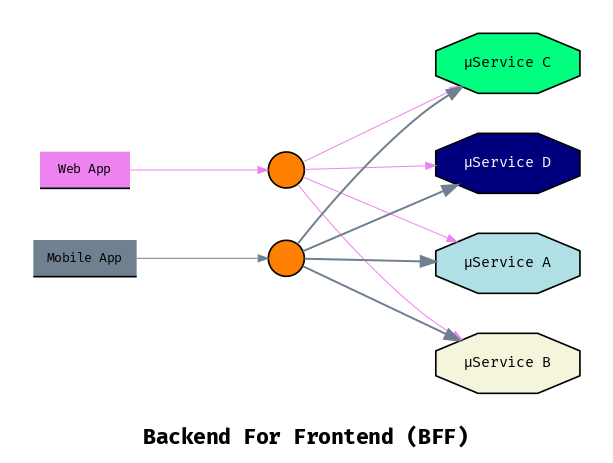
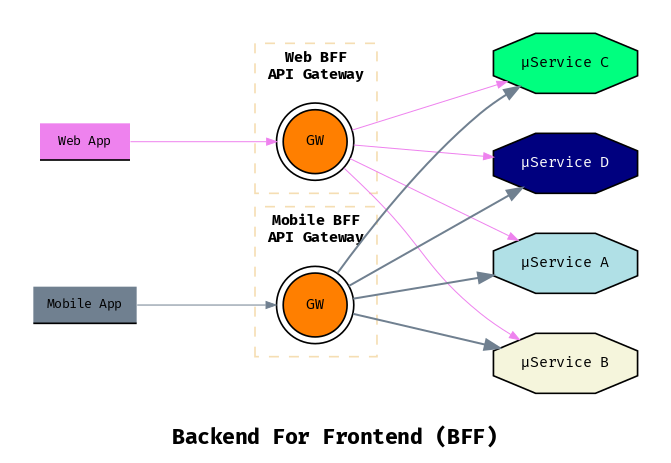
Add four new components: balancer, cdn, dns, html

diff --git a/balancer.go b/balancer.go
@@ -9,16 +9,16 @@ import (
 	"github.com/lucasepe/draft/pkg/node"
 )
 
-type storage struct {
+type balancer struct {
 	seq int16
 }
 
-func (rcv *storage) nextID() string {
+func (rcv *balancer) nextID() string {
 	rcv.seq++
-	return fmt.Sprintf("st%d", rcv.seq)
+	return fmt.Sprintf("lb%d", rcv.seq)
 }
 
-func (rcv *storage) sketch(graph *dot.Graph, comp Component) {
+func (rcv *balancer) sketch(graph *dot.Graph, comp Component) {
 	id := comp.ID
 	if strings.TrimSpace(comp.ID) == "" {
 		id = rcv.nextID()
@@ -27,12 +27,11 @@ func (rcv *storage) sketch(graph *dot.Graph, comp Component) {
 	cl := cluster.New(graph, id, cluster.Label(comp.Impl))
 
 	el := node.New(cl, id,
-		node.Label(comp.Label, false),
+		node.Label("LB", false),
 		node.Rounded(comp.Rounded),
 		node.FontColor(comp.FontColor),
-		node.FillColor(comp.FillColor, "#f0e77fff"),
-		node.FontSize(8),
-		node.Shape("folder"),
+		node.FillColor(comp.FillColor, "#1a5276ff"),
+		node.Shape("Mdiamond"),
 	)
-	el.Attr("height", "0.4")
+	el.Attr("height", "0.3")
 }

diff --git a/cdn.go b/cdn.go
@@ -9,16 +9,16 @@ import (
 	"github.com/lucasepe/draft/pkg/node"
 )
 
-type storage struct {
+type cdn struct {
 	seq int16
 }
 
-func (rcv *storage) nextID() string {
+func (rcv *cdn) nextID() string {
 	rcv.seq++
-	return fmt.Sprintf("st%d", rcv.seq)
+	return fmt.Sprintf("cn%d", rcv.seq)
 }
 
-func (rcv *storage) sketch(graph *dot.Graph, comp Component) {
+func (rcv *cdn) sketch(graph *dot.Graph, comp Component) {
 	id := comp.ID
 	if strings.TrimSpace(comp.ID) == "" {
 		id = rcv.nextID()
@@ -27,12 +27,10 @@ func (rcv *storage) sketch(graph *dot.Graph, comp Component) {
 	cl := cluster.New(graph, id, cluster.Label(comp.Impl))
 
 	el := node.New(cl, id,
-		node.Label(comp.Label, false),
-		node.Rounded(comp.Rounded),
+		node.Label("CDN", false),
 		node.FontColor(comp.FontColor),
-		node.FillColor(comp.FillColor, "#f0e77fff"),
-		node.FontSize(8),
-		node.Shape("folder"),
+		node.FillColor(comp.FillColor, "#47df9aff"),
+		node.Shape("Mcircle"),
 	)
-	el.Attr("height", "0.4")
+	el.Attr("height", "0.5")
 }

diff --git a/dns.go b/dns.go
@@ -9,16 +9,16 @@ import (
 	"github.com/lucasepe/draft/pkg/node"
 )
 
-type storage struct {
+type dns struct {
 	seq int16
 }
 
-func (rcv *storage) nextID() string {
+func (rcv *dns) nextID() string {
 	rcv.seq++
-	return fmt.Sprintf("st%d", rcv.seq)
+	return fmt.Sprintf("dn%d", rcv.seq)
 }
 
-func (rcv *storage) sketch(graph *dot.Graph, comp Component) {
+func (rcv *dns) sketch(graph *dot.Graph, comp Component) {
 	id := comp.ID
 	if strings.TrimSpace(comp.ID) == "" {
 		id = rcv.nextID()
@@ -27,12 +27,10 @@ func (rcv *storage) sketch(graph *dot.Graph, comp Component) {
 	cl := cluster.New(graph, id, cluster.Label(comp.Impl))
 
 	el := node.New(cl, id,
-		node.Label(comp.Label, false),
-		node.Rounded(comp.Rounded),
+		node.Label("DNS", false),
 		node.FontColor(comp.FontColor),
-		node.FillColor(comp.FillColor, "#f0e77fff"),
-		node.FontSize(8),
-		node.Shape("folder"),
+		node.FillColor(comp.FillColor, "#854eadff"),
+		node.Shape("Msquare"),
 	)
-	el.Attr("height", "0.4")
+	el.Attr("height", "0.3")
 }

diff --git a/html.go b/html.go
@@ -9,16 +9,16 @@ import (
 	"github.com/lucasepe/draft/pkg/node"
 )
 
-type gateway struct {
+type html struct {
 	seq int16
 }
 
-func (rcv *gateway) nextID() string {
+func (rcv *html) nextID() string {
 	rcv.seq++
-	return fmt.Sprintf("gt%d", rcv.seq)
+	return fmt.Sprintf("htm%d", rcv.seq)
 }
 
-func (rcv *gateway) sketch(graph *dot.Graph, comp Component) {
+func (rcv *html) sketch(graph *dot.Graph, comp Component) {
 	id := comp.ID
 	if strings.TrimSpace(comp.ID) == "" {
 		id = rcv.nextID()
@@ -26,12 +26,11 @@ func (rcv *gateway) sketch(graph *dot.Graph, comp Component) {
 
 	cl := cluster.New(graph, id, cluster.Label(comp.Impl))
 
-	el := node.New(cl, id,
-		node.Label("GW", false),
-		node.Rounded(comp.Rounded),
+	node.New(cl, id,
+		node.Label(comp.Label, true),
 		node.FontColor(comp.FontColor),
-		node.FillColor(comp.FillColor, "#ff7f00ff"),
-		node.Shape("doublecircle"),
+		node.FillColor("", "transparent"),
+		node.FontSize(7),
+		node.Shape("plain"),
 	)
-	el.Attr("width", "0.3")
 }

diff --git a/queue.go b/queue.go
@@ -27,13 +27,13 @@ func (rcv *queue) sketch(graph *dot.Graph, comp Component) {
 	cl := cluster.New(graph, id, cluster.Label(comp.Impl))
 
 	el := node.New(cl, id,
-		node.Label(comp.Label),
 		node.Rounded(comp.Rounded),
 		node.FontColor(comp.FontColor),
+		node.FontSize(7),
 		node.FillColor("", "transparent"),
 		// ^^^ hack to set a transparent background
 		// color since we will use the HTML table.
-		node.Shape("plaintext"),
+		node.Shape("plain"),
 	)
 
 	caption := strings.TrimSpace(comp.Label)
@@ -51,7 +51,7 @@ func (rcv *queue) sketch(graph *dot.Graph, comp Component) {
 	<tr><td border="1" style="dashed" bgcolor="%s">msg N</td>
 		<td border="1" style="dashed" bgcolor="%s">...</td>
 		<td border="1" style="dashed" bgcolor="%s">msg 1</td></tr>
-	<tr><td border="0" colspan="3"><font point-size="8">%s</font></td></tr>
+	<tr><td border="0" colspan="3"><font point-size="7">%s</font></td></tr>
 	</table>`, fillColor, fillColor, fillColor, caption)
 
 	el.Attr("label", dot.HTML(label))

diff --git a/draft.go b/draft.go
@@ -13,6 +13,7 @@ import (
 )
 
 const (
+	kindHTML     = "html"
 	kindClient   = "client"
 	kindGateway  = "gateway"
 	kindService  = "service"
@@ -21,6 +22,9 @@ const (
 	kindStorage  = "storage"
 	kindDatabase = "database"
 	kindFunction = "function"
+	kindBalancer = "balancer"
+	kindCDN      = "cdn"
+	kindDNS      = "dns"
 )
 
 // Connection is a link between two components.
@@ -68,6 +72,7 @@ func NewDraft(r io.Reader) (*Draft, error) {
 		sketchers: map[string]interface {
 			sketch(*dot.Graph, Component)
 		}{
+			kindHTML:     &html{},
 			kindClient:   &client{},
 			kindGateway:  &gateway{},
 			kindService:  &service{},
@@ -76,6 +81,9 @@ func NewDraft(r io.Reader) (*Draft, error) {
 			kindFunction: &function{},
 			kindStorage:  &storage{},
 			kindDatabase: &database{},
+			kindBalancer: &balancer{},
+			kindCDN:      &cdn{},
+			kindDNS:      &dns{},
 		},
 	}
 

diff --git a/broker.go b/broker.go
@@ -24,22 +24,17 @@ func (rcv *broker) sketch(graph *dot.Graph, comp Component) {
 		id = rcv.nextID()
 	}
 
-	label := comp.Label
-	if strings.TrimSpace(comp.Label) == "" {
-		label = "Message\nBroker"
-	}
-
 	cl := cluster.New(graph, id, cluster.Label(comp.Impl))
 
 	el := node.New(cl, id,
-		node.Label(label),
+		node.Label("Message Broker", false),
 		node.Rounded(comp.Rounded),
+		node.FontSize(7),
 		node.FontColor(comp.FontColor),
 		node.FillColor(comp.FillColor, "#e0eeeeff"),
 		node.Shape("cds"),
 	)
-	el.Attr("height", "0.6")
-	el.Attr("width", "1.2")
+	el.Attr("width", "1.4")
 }
 
 /** Alternative

diff --git a/pkg/node/node.go b/pkg/node/node.go
@@ -9,9 +9,13 @@ import (
 
 type Attribute func(*dot.Node)
 
-func Label(label string) Attribute {
+func Label(label string, htm bool) Attribute {
 	return func(el *dot.Node) {
-		el.Attr("label", label)
+		if htm {
+			el.Attr("label", dot.HTML(label))
+		} else {
+			el.Attr("label", label)
+		}
 	}
 }
 
@@ -66,6 +70,7 @@ func FontSize(size float32) Attribute {
 
 func New(cluster *dot.Graph, id string, attrs ...Attribute) *dot.Node {
 	el := cluster.Node(id)
+	el.Attr("style", "filled")
 
 	// default attributes
 	FontName("Fira Mono")(&el)

diff --git a/function.go b/function.go
@@ -24,10 +24,15 @@ func (rcv *function) sketch(graph *dot.Graph, comp Component) {
 		id = rcv.nextID()
 	}
 
+	label := id
+	if strings.TrimSpace(comp.Label) != "" {
+		label = comp.Label
+	}
+
 	cl := cluster.New(graph, id, cluster.Label(comp.Impl))
 
 	el := node.New(cl, id,
-		node.Label(comp.Label),
+		node.Label(label, false),
 		node.Rounded(comp.Rounded),
 		node.FontColor(comp.FontColor),
 		node.FillColor(comp.FillColor, "#abd9e9ff"),

diff --git a/database.go b/database.go
@@ -27,7 +27,7 @@ func (rcv *database) sketch(graph *dot.Graph, comp Component) {
 	cl := cluster.New(graph, id, cluster.Label(comp.Impl))
 
 	el := node.New(cl, id,
-		node.Label(comp.Label),
+		node.Label(comp.Label, false),
 		node.Rounded(comp.Rounded),
 		node.FontColor(comp.FontColor),
 		node.FillColor(comp.FillColor, "#f5f5dcff"),

diff --git a/service.go b/service.go
@@ -27,7 +27,7 @@ func (rcv *service) sketch(graph *dot.Graph, comp Component) {
 	cl := cluster.New(graph, id, cluster.Label(comp.Impl))
 
 	el := node.New(cl, id,
-		node.Label(comp.Label),
+		node.Label(comp.Label, false),
 		node.Rounded(comp.Rounded),
 		node.FontColor(comp.FontColor),
 		node.FillColor(comp.FillColor, "#f5f5dcff"),

diff --git a/client.go b/client.go
@@ -27,7 +27,7 @@ func (rcv *client) sketch(graph *dot.Graph, comp Component) {
 	cl := cluster.New(graph, id, cluster.Label(comp.Impl))
 
 	el := node.New(cl, id,
-		node.Label(comp.Label),
+		node.Label(comp.Label, false),
 		node.Rounded(comp.Rounded),
 		node.FontColor(comp.FontColor),
 		node.FillColor(comp.FillColor, "#90ee90ff"),
